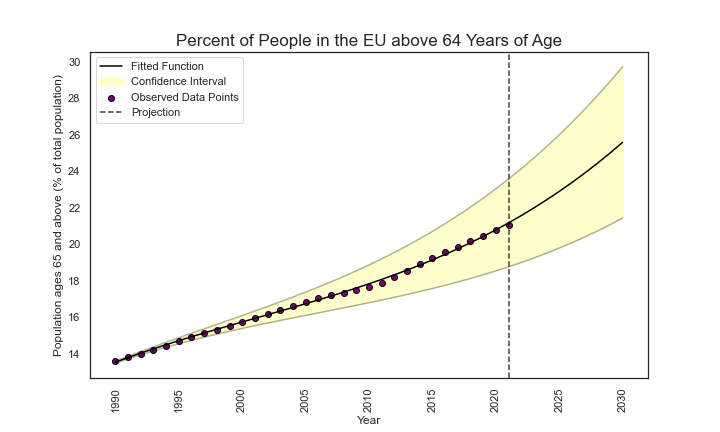
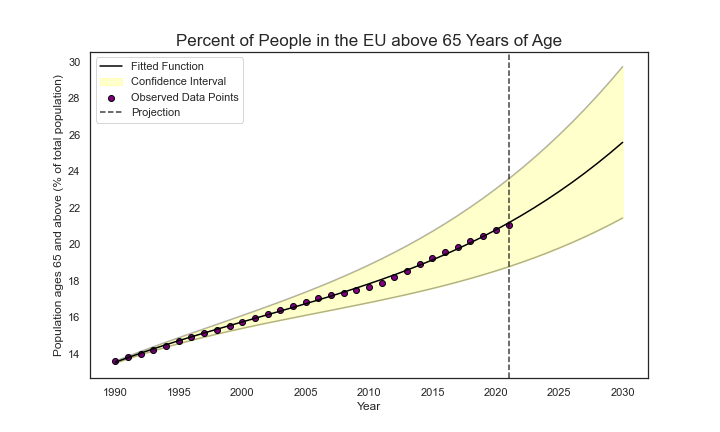
final changes

diff --git a/ClusteringPoster.py b/ClusteringPoster.py
@@ -328,7 +328,7 @@ def fitEUData(func, initparams, df, title = '', ylabel = ''):
     plt.xlabel('Year')
     plt.ylabel(ylabel)
     plt.title(title, fontsize = 17)
-    plt.xticks(rotation = 90)
+    plt.xticks()
     for n, label in enumerate(ax.xaxis.get_ticklabels()):
         if n % 5 != 0:
             label.set_visible(False)
@@ -361,6 +361,6 @@ initparams = [14, 0.25, 0.1, 0.1]
 fitEUData(poly,
           initparams,
           RET_df_tr,
-          title = 'Percent of People in the EU above 64 Years of Age',
+          title = 'Percent of People in the EU above 65 Years of Age',
           ylabel = ylab)
             
